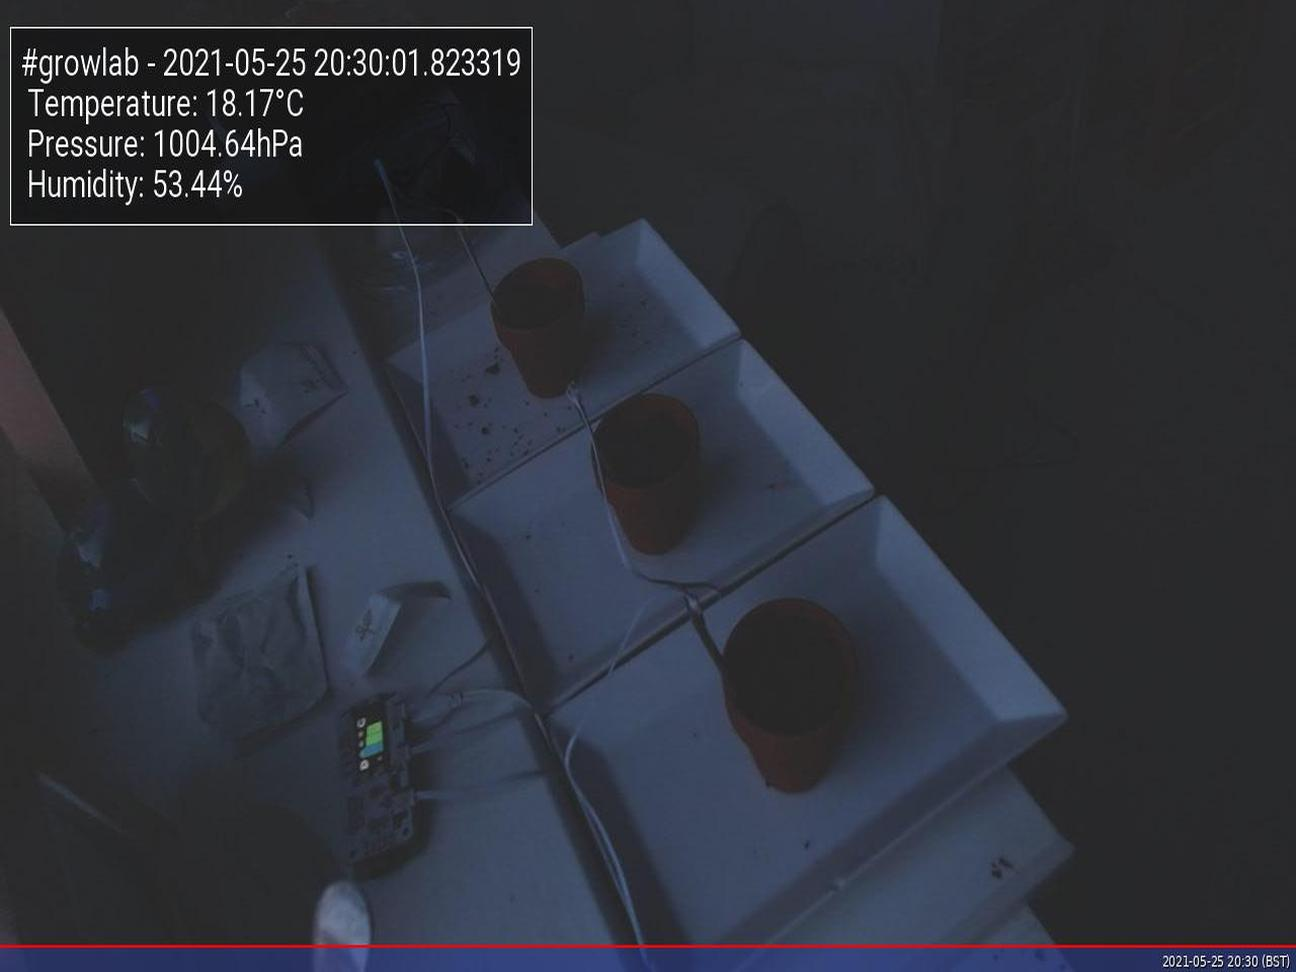
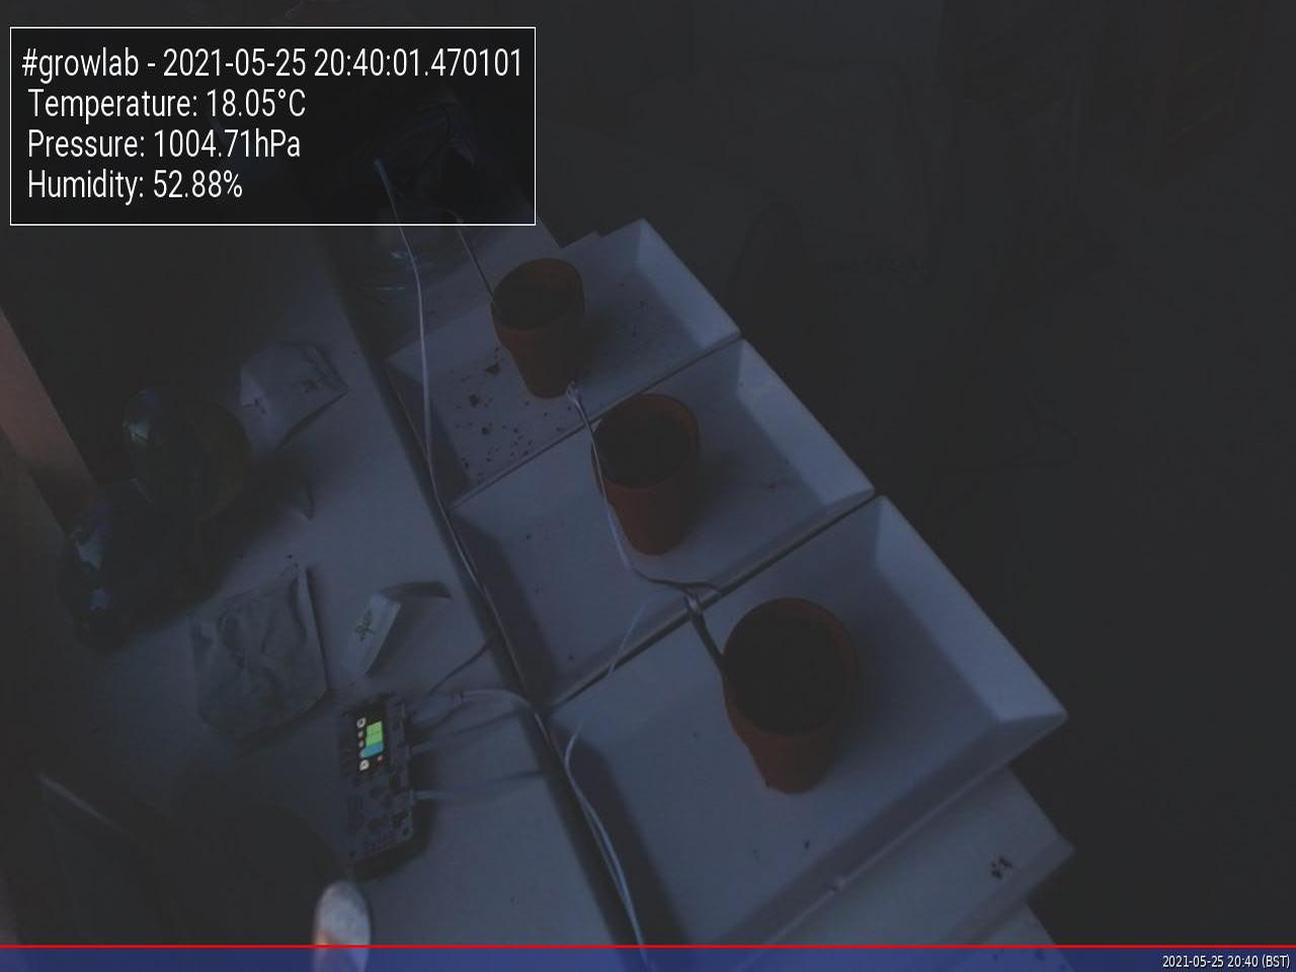
Update images at Tue 25 May 20:40:05 BST 2021

diff --git a/app/docs/index.html b/app/docs/index.html
@@ -47,19 +47,19 @@
                         <tbody>
                             <tr>
                                 <td>Time</td>
-                                <td>2021-05-25 20:30:01.823319</td>
+                                <td>2021-05-25 20:40:01.470101</td>
                             </tr>
                             <tr>
                                 <td>Temperature</td>
-                                <td>18.17°C</td>
+                                <td>18.05°C</td>
                             </tr>
                             <tr>
                                 <td>Humidity</td>
-                                <td>53.44%</td>
+                                <td>52.88%</td>
                             </tr>
                             <tr>
                                 <td>Pressure</td>
-                                <td>1004.64hPa</td>
+                                <td>1004.71hPa</td>
                             </tr>
                         </tbody>
                     </table>
@@ -67,7 +67,7 @@
 
                 <h5>Latest image</h5>
                 <div style="width: 85%;">
-                            <img class="figure-img img-fluid rounded" src="./preview.jpg?uid=1621971005.568131">
+                            <img class="figure-img img-fluid rounded" src="./preview.jpg?uid=1621971605.1843903">
                 </div>
             </div>
         </div>
